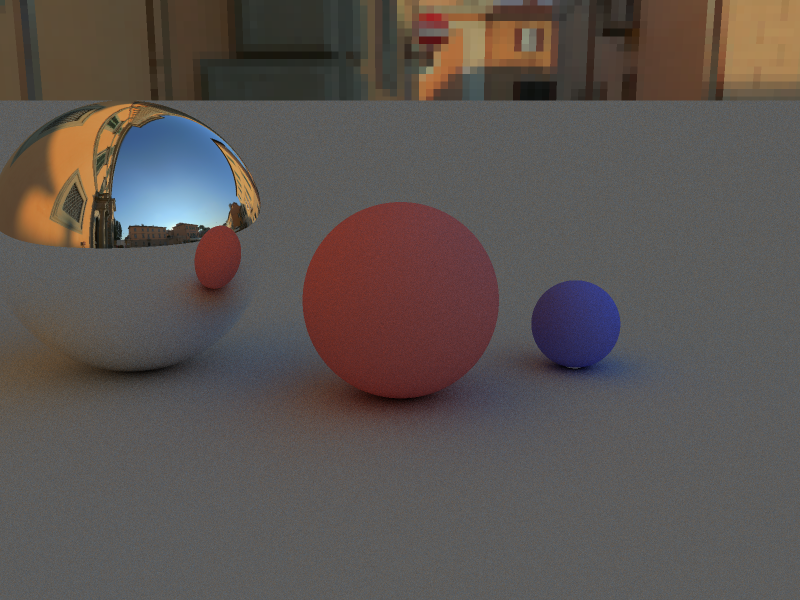
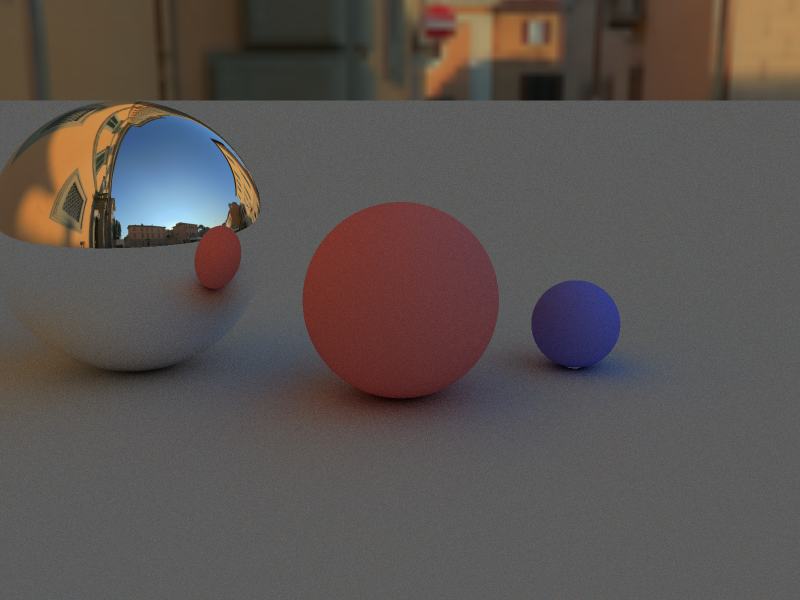
Add Texture struct, and Bilinear filter

diff --git a/src/scene.rs b/src/scene.rs
@@ -1,13 +1,7 @@
-extern crate image;
-
-use image::{DynamicImage, GenericImage};
-use std::fs::File;
-use std::path::Path;
-
 use consts;
 use vector::{Vector3, Vector2};
 use material::Material;
-use color;
+use texture::Texture;
 
 #[derive(Clone, Debug)]
 pub struct Ray {
@@ -158,54 +152,50 @@ impl CameraBuilder {
 }
 
 pub struct Skybox {
-    pub px_image: DynamicImage,
-    pub nx_image: DynamicImage,
-    pub py_image: DynamicImage,
-    pub ny_image: DynamicImage,
-    pub pz_image: DynamicImage,
-    pub nz_image: DynamicImage,
+    pub px_texture: Texture,
+    pub nx_texture: Texture,
+    pub py_texture: Texture,
+    pub ny_texture: Texture,
+    pub pz_texture: Texture,
+    pub nz_texture: Texture,
 }
 
 impl Skybox {
     pub fn new(px_path: &str, nx_path: &str, py_path: &str, ny_path: &str, pz_path: &str, nz_path: &str) -> Skybox {
         Skybox {
-            px_image: image::open(&Path::new(px_path)).unwrap(),
-            nx_image: image::open(&Path::new(nx_path)).unwrap(),
-            py_image: image::open(&Path::new(py_path)).unwrap(),
-            ny_image: image::open(&Path::new(ny_path)).unwrap(),
-            pz_image: image::open(&Path::new(pz_path)).unwrap(),
-            nz_image: image::open(&Path::new(nz_path)).unwrap(),
+            px_texture: Texture::new(px_path),
+            nx_texture: Texture::new(nx_path),
+            py_texture: Texture::new(py_path),
+            ny_texture: Texture::new(ny_path),
+            pz_texture: Texture::new(pz_path),
+            nz_texture: Texture::new(nz_path),
         }
     }
 
-    pub fn trace(&self, direction: &Vector3) -> Vector3 {
+    pub fn sample(&self, direction: &Vector3) -> Vector3 {
         let abs_x = direction.x.abs();
         let abs_y = direction.y.abs();
         let abs_z = direction.z.abs();
 
         if abs_x > abs_y && abs_x > abs_z {
-            if direction.x.is_positive() {
-                self.get_color(&self.px_image, -direction.z / direction.x, -direction.y / direction.x)
+            if direction.x.is_sign_positive() {
+                self.px_texture.sample_bilinear_0center(-direction.z / direction.x, -direction.y / direction.x)
             } else {
-                self.get_color(&self.nx_image, -direction.z / direction.x, direction.y / direction.x)
+                self.nx_texture.sample_bilinear_0center(-direction.z / direction.x, direction.y / direction.x)
             }
         } else if abs_y > abs_x && abs_y > abs_z {
-            if direction.y.is_positive() {
-                self.get_color(&self.py_image, direction.x / direction.y, direction.z / direction.y)
+            if direction.y.is_sign_positive() {
+                self.py_texture.sample_bilinear_0center(direction.x / direction.y, direction.z / direction.y)
             } else {
-                self.get_color(&self.ny_image, -direction.x / direction.y, direction.z / direction.y)
+                self.ny_texture.sample_bilinear_0center(-direction.x / direction.y, direction.z / direction.y)
             }
         } else {
-            if direction.z.is_positive() {
-                self.get_color(&self.pz_image, direction.x / direction.z, -direction.y / direction.z)
+            if direction.z.is_sign_positive() {
+                self.pz_texture.sample_bilinear_0center(direction.x / direction.z, -direction.y / direction.z)
             } else {
-                self.get_color(&self.nz_image, direction.x / direction.z, direction.y / direction.z)
+                self.nz_texture.sample_bilinear_0center(direction.x / direction.z, direction.y / direction.z)
             }
         }
-    }
-
-    fn get_color(&self, image: &DynamicImage, u: f64, v: f64) -> Vector3 {
-        color::rgba_to_vector3(image.get_pixel(((image.width() - 1) as f64 * (u + 1.0) * 0.5) as u32, ((image.height() - 1) as f64 * (v + 1.0) * 0.5) as u32))
     }
 }
 
@@ -221,7 +211,7 @@ impl Scene {
             element.intersect(&ray, &mut intersection);
         }
         if !intersection.hit {
-            intersection.material.emission = self.skybox.trace(&ray.direction);
+            intersection.material.emission = self.skybox.sample(&ray.direction);
         }
         intersection
     }

diff --git a/src/texture.rs b/src/texture.rs
@@ -1,0 +1,63 @@
+extern crate image;
+
+use image::{DynamicImage, GenericImage};
+use std::path::Path;
+
+use vector::Vector3;
+use color;
+
+pub struct Texture {
+    pub image: DynamicImage,
+}
+
+fn clamp(x: u32, min: u32, max: u32) -> u32 {
+    if x < min { min } else if x > max { max } else { x }
+}
+
+impl Texture {
+    pub fn new(path: &str) -> Texture {
+        Texture {
+            image: image::open(&Path::new(path)).unwrap(),
+        }
+    }
+
+    pub fn sample_bilinear_0center(&self, u: f64, v: f64) -> Vector3 {
+        let u = 0.5 * (u + 1.0);
+        let v = 0.5 * (v + 1.0);
+        self.sample_bilinear(u, v)
+    }
+
+    // https://en.wikipedia.org/wiki/Bilinear_interpolation
+    pub fn sample_bilinear(&self, u: f64, v: f64) -> Vector3 {
+        let x = u * self.image.width() as f64;
+        let y = v * self.image.height() as f64;
+        let x1 = x.floor();
+        let y1 = y.floor();
+        let x2 = x1 + 1.0;
+        let y2 = y1 + 1.0;
+
+        let p11 = self.sample_nearest_screen(x1 as u32, y1 as u32);
+        let p12 = self.sample_nearest_screen(x1 as u32, y2 as u32);
+        let p21 = self.sample_nearest_screen(x2 as u32, y1 as u32);
+        let p22 = self.sample_nearest_screen(x2 as u32, y2 as u32);
+
+        (
+            p11 * (x2 - x) * (y2 - y) +
+            p21 * (x - x1) * (y2 - y) +
+            p12 * (x2 - x) * (y - y1) +
+            p22 * (x - x1) * (y - y1)
+        ) / ((x2- x1) * (y2 - y1))
+    }
+
+    pub fn sample_nearest(&self, u: f64, v: f64) -> Vector3 {
+        let x = u * self.image.width() as f64;
+        let y = v * self.image.height() as f64;
+        self.sample_nearest_screen(x as u32, y as u32)
+    }
+
+    fn sample_nearest_screen(&self, x: u32, y: u32) -> Vector3 {
+        let x = clamp(x,0, self.image.width() - 1);
+        let y = clamp(y, 0, self.image.height() - 1);
+        color::rgba_to_vector3(self.image.get_pixel(x, y))
+    }
+}

diff --git a/src/main.rs b/src/main.rs
@@ -12,6 +12,7 @@ mod material;
 mod brdf;
 mod random;
 mod color;
+mod texture;
 
 use vector::Vector3;
 use scene::{Scene, CameraBuilder, Sphere, Plane, Skybox};
